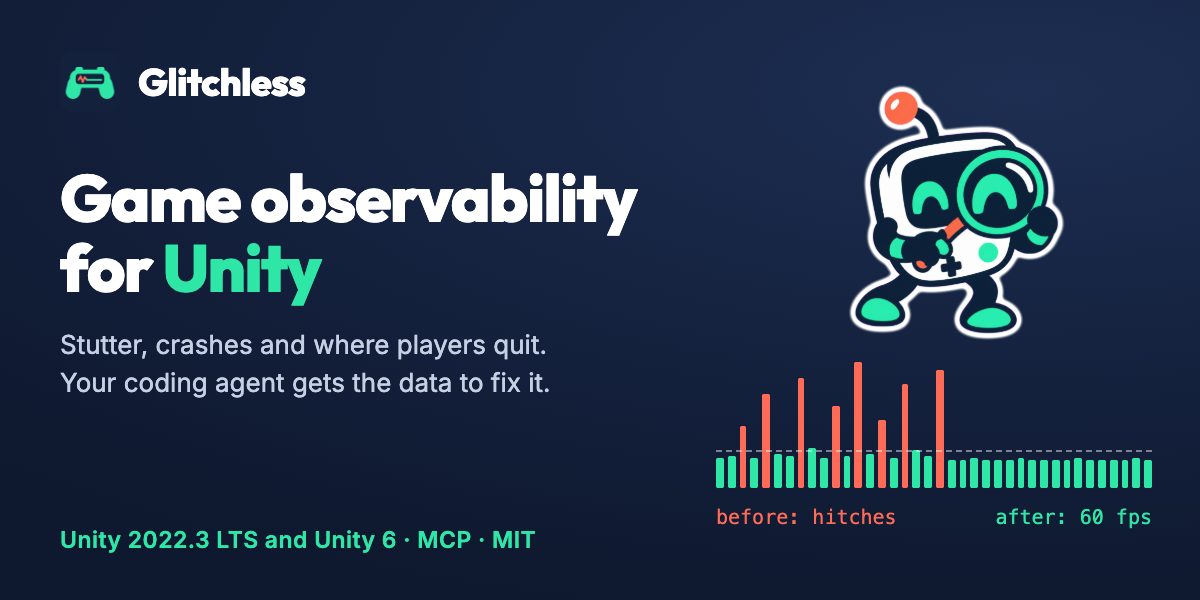
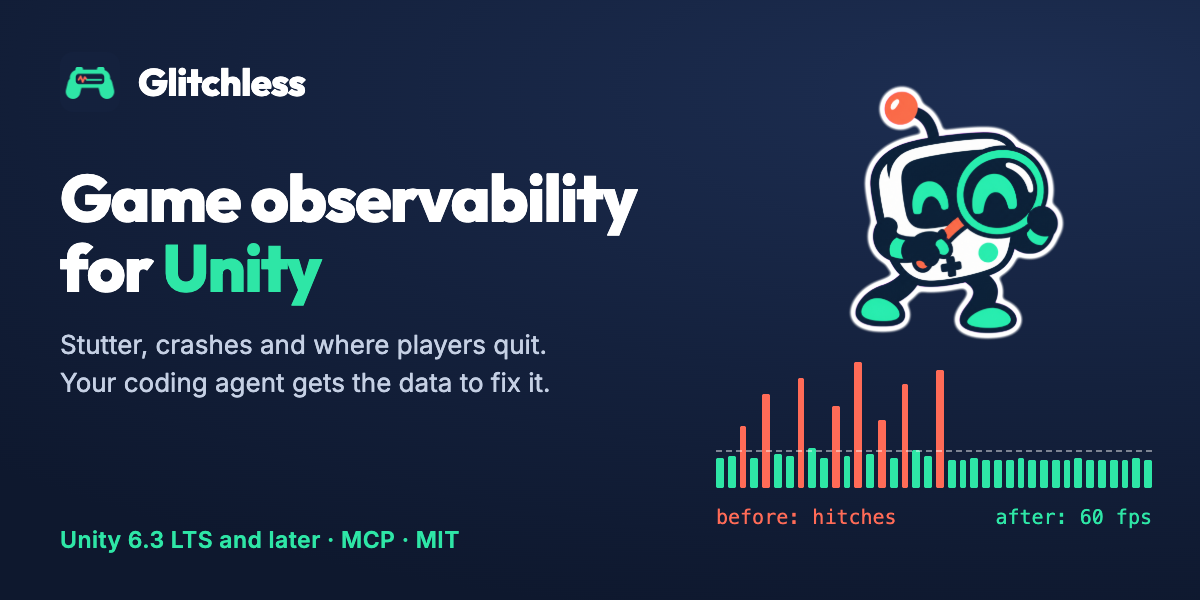
Sync with the private repo at b7d227f
Exported from the private repo at b7d227f, without cloud/.

Changed region(s): [[0.0925, 0.87, 0.4625, 0.93]]

diff --git a/packages/mcp/src/context.js b/packages/mcp/src/context.js
@@ -34,7 +34,7 @@ export function useCredentials({ url, token }) {
 }
 
 export const server = new McpServer(
-  { name: 'glitchless', version: '0.5.0' },
+  { name: 'glitchless', version: '0.6.0' },
   {
     instructions:
       'Glitchless is observability for games made with Three.js, Phaser, Babylon.js, PlayCanvas, Unity, Godot, Unreal or GameMaker. On Glitchless Cloud, glitchless_sign_in connects you to the person\'s whole workspace (they approve a code in the browser): then glitchless_list_games lists every game, glitchless_create_game makes one and hands back its client token, every tool takes game (by name), and glitchless_share_board makes a read-only link to a board. Start with glitchless_triage to get ranked, evidence-backed findings for a game, then drill in with glitchless_performance, glitchless_get_error, glitchless_death_hotspots or glitchless_session. When players or playtesters send bug reports from inside the game (an F8 form or a button), glitchless_bug_reports lists them with what they wrote, the level and where they stood, and opens one with its screenshot. For metrics the game defines itself (what it sends with track(): plays, purchases, paywall views and so on) and funnels between them, use glitchless_events. For a game connected to a store (Steam, Google Play, the App Store), glitchless_store_reviews reads what players wrote there by build, with the hardware and Steam Deck playtime reviewers show, next to what Glitchless measured on that build, and glitchless_store_vitals what the store itself measured (slow rendering, crashes, ANRs, hangs) next to Glitchless, version by version. Each game has its own dashboard, a list of pages (boards of panels, and built-in views such as Errors, Sessions and Live Tail): read it with glitchless_dashboard, and after instrumenting a game, design one that fits it with glitchless_set_dashboard. Before changing game code, run glitchless_playtest with save_as "baseline"; after the change, run glitchless_playtest again to compare, and treat a FAIL as unfinished work. After shipping a fix (bump the version passed to Glitchless.init), use glitchless_compare_versions to confirm it with real players. If the game is running in a browser with WebMCP connected, its live tools (glitchless_live_performance, glitchless_measure, glitchless_inspect_scene, and game tools such as zoomies_load_level) let you reproduce and measure issues directly. Unity, Godot, Unreal and GameMaker builds measure themselves when run with --glitchless-measure=SECONDS (-glitchless-measure in Unreal and GameMaker); in the Unreal editor, Unreal MCP with the Glitchless Toolset has a Measure tool.',

diff --git a/apps/dashboard/src/pages/Setup.jsx b/apps/dashboard/src/pages/Setup.jsx
@@ -55,7 +55,7 @@ glitchless.captureMap('level-1', { axis: 'xy', bounds: { min: [0, -5], max: [200
       </Widget>
       <Widget span={12} title="Engines" sub="the same telemetry model across engines">
         <div style={{ display: 'flex', gap: 10, flexWrap: 'wrap' }}>
-          {['three.js · supported', 'React Three Fiber · supported', 'Phaser 3 and 4 · supported', 'Godot 4.5+ · supported', 'Unity 2022.3+ · supported', 'Unreal Engine 5.8 · supported', 'Babylon.js 5+ · supported', 'PlayCanvas 2 · supported'].map((e) => (
+          {['three.js · supported', 'React Three Fiber · supported', 'Phaser 3 and 4 · supported', 'Godot 4.5+ · supported', 'Unity 6.3+ · supported', 'Unreal Engine 5.8 · supported', 'Babylon.js 5+ · supported', 'PlayCanvas 2 · supported'].map((e) => (
             <span key={e} className="tag" style={{ fontSize: 12, padding: '3px 8px' }}>
               {e}
             </span>

diff --git a/assets/brand/glitchless/asset-store/banner.html b/assets/brand/glitchless/asset-store/banner.html
@@ -32,7 +32,7 @@
   <div class="brand"><img src="../logo/png/glitchless-icon-128.png" alt="">Glitchless</div>
   <h1>Game observability<br>for <em>Unity</em></h1>
   <p>Stutter, crashes and where players quit.<br>Your coding agent gets the data to fix it.</p>
-  <div class="meta">Unity 2022.3 LTS and Unity 6 · MCP · MIT</div>
+  <div class="meta">Unity 6.3 LTS and later · MCP · MIT</div>
   <img class="glitchy" src="../mascot/on-dark/glitchy-search.png" alt="">
   <div class="trace" id="trace"></div>
   <div class="budget"></div>

diff --git a/assets/brand/glitchless/openupm/cover.html b/assets/brand/glitchless/openupm/cover.html
@@ -35,7 +35,7 @@
     <h1>Game observability<br>for <em>Unity</em></h1>
     <p>Stutter, crashes and where players quit.<br>Your coding agent gets the data to fix it.</p>
   </div>
-  <div class="meta">Unity 2022.3 LTS and Unity 6 · MCP · MIT</div>
+  <div class="meta">Unity 6.3 LTS and later · MCP · MIT</div>
   <div class="art">
     <img class="glitchy" src="../mascot/on-dark/glitchy-search.png" alt="">
     <div class="trace" id="trace"></div>

diff --git a/packages/sdk/src/core.js b/packages/sdk/src/core.js
@@ -7,7 +7,7 @@ import { fingerprint as fingerprintOf } from './fingerprint.js';
 import { BugReportForm, snapshot, sendReport } from './bugreport.js';
 import { readSteam, withSteam, steamVersion } from './steam.js';
 
-export const SDK_VERSION = '0.4.0';
+export const SDK_VERSION = '0.5.0';
 const SDK = `glitchless-browser/${SDK_VERSION}`;
 
 const HITCH_MS = 50; // a single frame over 50ms is a visible stutter (LoAF threshold)

diff --git a/unreal/test/core/CoreTests.cpp b/unreal/test/core/CoreTests.cpp
@@ -309,7 +309,7 @@ TEST(KeepsEverythingUntilInitThenSendsSessionStartFirst)
 	EXPECT_EQ(Env.Find("service")->AsString(), "fetch"); // service is lowercased
 	EXPECT_EQ(Env.Find("version")->AsString(), "1.2.3"); // the project's version
 	EXPECT_EQ(Env.Find("env")->AsString(), "dev"); // dev in the editor and development builds
-	EXPECT_EQ(Env.Find("sdk")->AsString(), "glitchless-unreal/0.2.0");
+	EXPECT_EQ(Env.Find("sdk")->AsString(), "glitchless-unreal/0.3.0");
 	EXPECT(Env.Find("player_id")->IsNull()); // anonymous mode has no player ID
 	EXPECT(Text::StartsWith(Env.Find("session_id")->AsString(), "s_"));
 	EXPECT_EQ(OfType(Events, "error").at(0).Find("fn")->AsString(), "LogTemp");
@@ -886,7 +886,7 @@ TEST(MeasureReportsTheNextSeconds)
 	EXPECT_EQ(Result.Find("frames")->AsInt(), 60);
 	EXPECT_EQ(Result.Find("frame_budget_ms")->AsNumber(), 16.67);
 	EXPECT_EQ(Result.Find("draw_calls")->Find("avg")->AsInt(), 40);
-	EXPECT_EQ(Result.Find("sdk")->AsString(), "glitchless-unreal/0.2.0");
+	EXPECT_EQ(Result.Find("sdk")->AsString(), "glitchless-unreal/0.3.0");
 	EXPECT_EQ(Result.Find("session_id")->AsString(), Core->GetSessionId());
 	EXPECT_EQ(Result.Find("update_cpu_ms")->Find("p50")->AsNumber(), 4.0);
 	EXPECT_EQ(Result.Find("render_cpu_ms")->Find("p50")->AsNumber(), 3.0);
@@ -1159,7 +1159,7 @@ TEST(LiveSaysWhatIsGoingOn)
 	H.Frames(*Core, 1); // the frame that finishes the hitch
 	Core->ReportError("log_error", "boom", "", FValue(), false, "LogTemp");
 	const FValue L = Core->Live();
-	EXPECT_EQ(L.Find("sdk")->AsString(), "glitchless-unreal/0.2.0");
+	EXPECT_EQ(L.Find("sdk")->AsString(), "glitchless-unreal/0.3.0");
 	EXPECT_EQ(L.Find("level")->AsString(), "Arena");
 	EXPECT_EQ(L.Find("session_id")->AsString(), Core->GetSessionId());
 	EXPECT(L.Find("frames")->Size() >= 2);

diff --git a/unreal/Plugins/Glitchless/Source/Glitchless/Private/Tests/GlitchlessTests.cpp b/unreal/Plugins/Glitchless/Source/Glitchless/Private/Tests/GlitchlessTests.cpp
@@ -95,7 +95,7 @@ bool FGlitchlessGzipTest::RunTest(const FString& Parameters)
 	TestTrue(TEXT("the batch is gzip"), Body.size() > 2 && Body[0] == 0x1f && Body[1] == 0x8b);
 	Glitchless::FValue Envelope;
 	TestTrue(TEXT("it unpacks to JSON"), Glitchless::FValue::Parse(Gunzip(Body), Envelope));
-	TestEqual(TEXT("sdk"), GlitchlessText::Tchar(Envelope.Find("sdk") ? Envelope.Find("sdk")->AsString() : ""), FString(TEXT("glitchless-unreal/0.2.0")));
+	TestEqual(TEXT("sdk"), GlitchlessText::Tchar(Envelope.Find("sdk") ? Envelope.Find("sdk")->AsString() : ""), FString(TEXT("glitchless-unreal/0.3.0")));
 	const FString BatchId = GlitchlessText::Tchar(Envelope.Find("batch_id") ? Envelope.Find("batch_id")->AsString() : "");
 	TestTrue(TEXT("the batch has its own batch_id"), BatchId.StartsWith(TEXT("b_")) && BatchId.Len() == 18);
 	return true;

diff --git a/unreal/Plugins/Glitchless/Source/Glitchless/Private/Core/GlitchlessCore.h b/unreal/Plugins/Glitchless/Source/Glitchless/Private/Core/GlitchlessCore.h
@@ -139,8 +139,8 @@ namespace Glitchless
 	class FCore
 	{
 	public:
-		static constexpr const char* SdkVersion = "0.2.0";
-		static constexpr const char* Sdk = "glitchless-unreal/0.2.0";
+		static constexpr const char* SdkVersion = "0.3.0";
+		static constexpr const char* Sdk = "glitchless-unreal/0.3.0";
 		static constexpr int SendDeadlineMs = 1500; // how long closing or going to the background may wait on the network
 
 		FCore();

diff --git a/unity/Packages/gg.glitchless.sdk/Runtime/GlitchlessCore.cs b/unity/Packages/gg.glitchless.sdk/Runtime/GlitchlessCore.cs
@@ -57,7 +57,7 @@ namespace GlitchlessSdk
     /// </summary>
     public sealed class GlitchlessCore
     {
-        public const string SdkVersion = "0.3.0";
+        public const string SdkVersion = "0.4.0";
         public const string Sdk = "glitchless-unity/" + SdkVersion;
 
         const double HitchMs = 50; // one frame over 50 ms is a stutter a player sees

diff --git a/unreal/Plugins/Glitchless/Source/Glitchless/Private/Glitchless.cpp b/unreal/Plugins/Glitchless/Source/Glitchless/Private/Glitchless.cpp
@@ -61,7 +61,7 @@ FGlitchlessOptions FGlitchlessOptions::FromSettings(const UGlitchlessSettings& S
 
 const TCHAR* FGlitchless::SdkVersion()
 {
-	return TEXT("0.2.0");
+	return TEXT("0.3.0");
 }
 
 void FGlitchless::Init(const FGlitchlessOptions& Options)

diff --git a/README.md b/README.md
@@ -7,7 +7,7 @@
 
 # Glitchless
 
-Glitchless shows you how your game plays for real players, and gives your coding agent the same data so it can fix what they hit. It works with Three.js, Phaser, Babylon.js and PlayCanvas games in the browser, and Godot 4.5+, Unity (2022.3 LTS and 6) Unreal Engine 5.8 and GameMaker (2024.2+) games on phones and desktops.
+Glitchless shows you how your game plays for real players, and gives your coding agent the same data so it can fix what they hit. It works with Three.js, Phaser, Babylon.js and PlayCanvas games in the browser, and Godot 4.5+, Unity (6.3 LTS and later), Unreal Engine 5.8 and GameMaker (2024.2+) games on phones and desktops.
 
 - **Stutter.** Every frame is timed on every player's device, and each hitch comes with its likely cause: a long script, a shader compile, garbage collection or an asset load.
 - **Crashes.** Errors are grouped into issues, each with the gameplay just before it.
@@ -31,7 +31,7 @@ It's open source and runs anywhere Node runs: one server with a file store, on a
 | --- | --- |
 | [`packages/sdk`](packages/sdk) | `glitchless`: SDK, Three.js, Phaser (3 and 4), Babylon.js and PlayCanvas adapters, overlay, WebMCP tools, Datadog RUM bridge. ~120 KB as one `<script>` (about 38 KB gzipped) |
 | [`godot`](godot) | Glitchless for **Godot 4.5+** (`addons/glitchless`): the same events from native Godot games, with errors through Godot's loggers, an anonymous mode and `--glitchless-measure` for agents. A demo game and end-to-end test sit alongside |
-| [`unity`](unity) | Glitchless for **Unity 2022.3 LTS and Unity 6** (`gg.glitchless.sdk`, installed by git URL): frame timing with the player loop split into update, physics and render, profiler counters, errors from Unity's log, scenes as levels, an offline outbox and `--glitchless-measure` for agents. A sample game and end-to-end test sit alongside |
+| [`unity`](unity) | Glitchless for **Unity 6.3 LTS and later** (`gg.glitchless.sdk`, installed by git URL): frame timing with the player loop split into update, physics and render, profiler counters, errors from Unity's log, scenes as levels, an offline outbox and `--glitchless-measure` for agents. A sample game and end-to-end test sit alongside |
 | [`unreal`](unreal) | Glitchless for **Unreal Engine 5.8** (`Plugins/Glitchless`, C++ source): game, render, RHI and GPU times, hitches with their causes (pipeline states created on the spot, garbage collection, map and asset loads), ensures, Blueprint errors and crashes, maps as levels, bug reports, settings that need no code, and `-glitchless-measure` for agents. An optional toolset gives Unreal MCP `Status` and `Measure` tools. A demo with planted problems and an end-to-end test sit alongside |
 | [`gamemaker`](gamemaker) | Glitchless for **GameMaker 2024.2+** (GML scripts, a local package or `tools/install.mjs`): frame windows from `delta_time`, hitches named by what GameMaker can see (texture pages, room changes, collections, instance bursts), instance, surface and DS counts for leaks, rooms as levels, crashes sent on the next launch, bug reports and `-glitchless-measure` for agents. A demo with planted problems, a Node test that runs the GML without GameMaker, and an end-to-end test sit alongside |
 | [`server`](server) | Intake, query API, findings and alerts: one Node 20+ server with a file store and no npm dependencies (`npm run server`, or the [Docker image](#run-it-on-a-server)) |
@@ -74,7 +74,7 @@ you, the coding agent, read that data, fix what players hit and check that the f
    the same address.
 
 2. Read ~/.glitchless/plugin/glitchless/skills/instrument/SKILL.md and follow it for this game. It
-   covers Three.js (and React Three Fiber), Phaser 3 and 4, Babylon.js, PlayCanvas, Unity 2022.3 or
+   covers Three.js (and React Three Fiber), Phaser 3 and 4, Babylon.js, PlayCanvas, Unity 6.3 or
    later, Godot 4.5 or later, Unreal Engine 5.8, and GameMaker 2024.2 or later; for Godot it sends
    you to ~/.glitchless/godot/addons/glitchless/README.md.
    Use these settings:
@@ -221,7 +221,7 @@ then call `Glitchless.Init(new GlitchlessOptions { Service = "my-game", Intake =
 
 For an Unreal game, copy [`unreal/Plugins/Glitchless`](unreal/Plugins/Glitchless) into the project's `Plugins` folder, enable it in **Edit → Plugins**, and fill in **Service** and **Intake** in **Project Settings → Plugins → Glitchless**; no code is needed. See its [README](unreal/Plugins/Glitchless/README.md), and [`unreal/demo`](unreal/demo) for a small game with planted problems.
 
-For a GameMaker game, run `node gamemaker/tools/install.mjs path/to/Game.yyp` (or import `Glitchless-0.1.0.yymps` from the [release](https://github.com/glitchless-gg/glitchless/releases/tag/glitchless-gamemaker/v0.1.0) with **Tools → Import Local Package**), then call `glitchless_init("my-game", "", "prod", "http://localhost:7777");` in the first room's creation code. See its [README](gamemaker/README.md).
+For a GameMaker game, run `node gamemaker/tools/install.mjs path/to/Game.yyp` (or import `Glitchless-0.2.0.yymps` from the [release](https://github.com/glitchless-gg/glitchless/releases/tag/glitchless-gamemaker/v0.2.0) with **Tools → Import Local Package**), then call `glitchless_init("my-game", "", "prod", "http://localhost:7777");` in the first room's creation code. See its [README](gamemaker/README.md).
 
 ## Connect your coding agent
 

diff --git a/unity/Packages/gg.glitchless.sdk/CHANGELOG.md b/unity/Packages/gg.glitchless.sdk/CHANGELOG.md
@@ -1,8 +1,9 @@
 # Changelog
 
-## 0.3.0
+## 0.4.0
 
-- `Privacy.Install`: anonymous mode plus the random `p_…` player ID saved on the device (`persistentDataPath/glitchless/player_id`, the one `Privacy.Full` uses; PlayerPrefs in WebGL builds, which now keep it in Full mode too) and sent as `player_id`, so the dashboard can count retention (D1, D7, D30). Device fields and positions are sent as in anonymous mode, and unsent batches keep their IDs. `Glitchless.ResetInstallId()` forgets the ID from the next launch, and Install ID on the Bootstrap turns the mode on. `session_start` says `privacy: "install"`. `Privacy.Full` keeps its value (1); `Install` is 2. The same as the Unreal plugin's install mode.
+- Needs Unity 6.3 LTS or later: Unity 2022.3 is no longer supported. Tested on Unity 6.3 LTS (6000.3.27f1) and Unity 6.5 (6000.5.9f1).
+- Compiles on Unity 6.5, where `Scene.handle` is a `SceneHandle` that no longer converts to an int (0.3.0 didn't build there).
 - Every batch carries a random `batch_id` (`b_` and 16 characters), made when the batch is cut and sent with every try of it, and saved with the batch in every privacy mode (it names the batch, not the session or the player). The server stores a batch once however often it arrives: after a timeout, a send cut short by going to the background or quitting (which sends the batch in flight again), or a launch that sends what the last one saved. Sending on the way out saves the outbox after each batch the server takes, and the answer to an aborted send is no longer taken for a later try of the same batch.
 - `Glitchless.LevelAbandon(level)`: the player left the level before it ended (the menu, a restart). Never a fail. Going to the background (phones) or quitting with a level started and not yet completed, failed or abandoned sends one by itself, with that `reason`, before `session_end`, and a `LevelFail` or `LevelAbandon` for that level after the session has ended is dropped. Back from the background in the same session, the level carries on.
 - A Glitchless call from an `OnDestroy` as the game quits no longer starts Glitchless again.
@@ -11,6 +12,10 @@
 - The `load` event is stamped with the first frame's time, not the first batch's, and says `first_launch` (the first launch of this game version on the device; `persistentDataPath/glitchless/launched` holds the version that last ran).
 - The frame budget (`hz`, `budget_ms`) is read from the fast frames, as the browser SDK reads it: the 20th percentile, a first guess after 30 frames (the first windows no longer go out at 60 Hz on every screen), the answer at 120, then a look every 480 frames that only goes faster, and lowered when the OS reports a slower screen. A game at 40 fps on a 60 Hz screen was judged at 30 Hz; now at 60.
 - Docs: `refresh_hz` is the screen's rate as the OS reports it, not the rate the game ran at; what each frame window field means (averages, maxima, totals, and counts as the window closed).
+
+## 0.3.0
+
+- `Privacy.Install`: anonymous mode plus the random `p_…` player ID saved on the device (`persistentDataPath/glitchless/player_id`, the one `Privacy.Full` uses; PlayerPrefs in WebGL builds, which now keep it in Full mode too) and sent as `player_id`, so the dashboard can count retention (D1, D7, D30). Device fields and positions are sent as in anonymous mode, and unsent batches keep their IDs. `Glitchless.ResetInstallId()` forgets the ID from the next launch, and Install ID on the Bootstrap turns the mode on. `session_start` says `privacy: "install"`. `Privacy.Full` keeps its value (1); `Install` is 2. The same as the Unreal plugin's install mode.
 - `steam_deck` in the device fields (`true` on a Steam Deck: `SteamDeck=1`, Valve's Jupiter or Galileo board, or SteamOS; under Proton through Wine's `Z:` drive), with `gpu_tier` `low` and `os` `SteamOS` on a Deck running it, as the Unreal plugin sends them.
 - Steam facts in the device fields when the game uses Steamworks.NET or Facepunch.Steamworks (found by reflection, read only once Steam is initialised): `steam_build`, `steam_branch` (`public` on the default branch), `steam_hardware` (`deck`, `machine`, `frame`, `none`), `proton`, `big_picture`, `steam_controller` (the first Steam Input controller's type), `family_shared`, `timed_trial`, `steam_language`. Never a Steam ID. With `Version` empty, a Steam build reports `steam-<build>` as its version. See PRIVACY.md.
 
